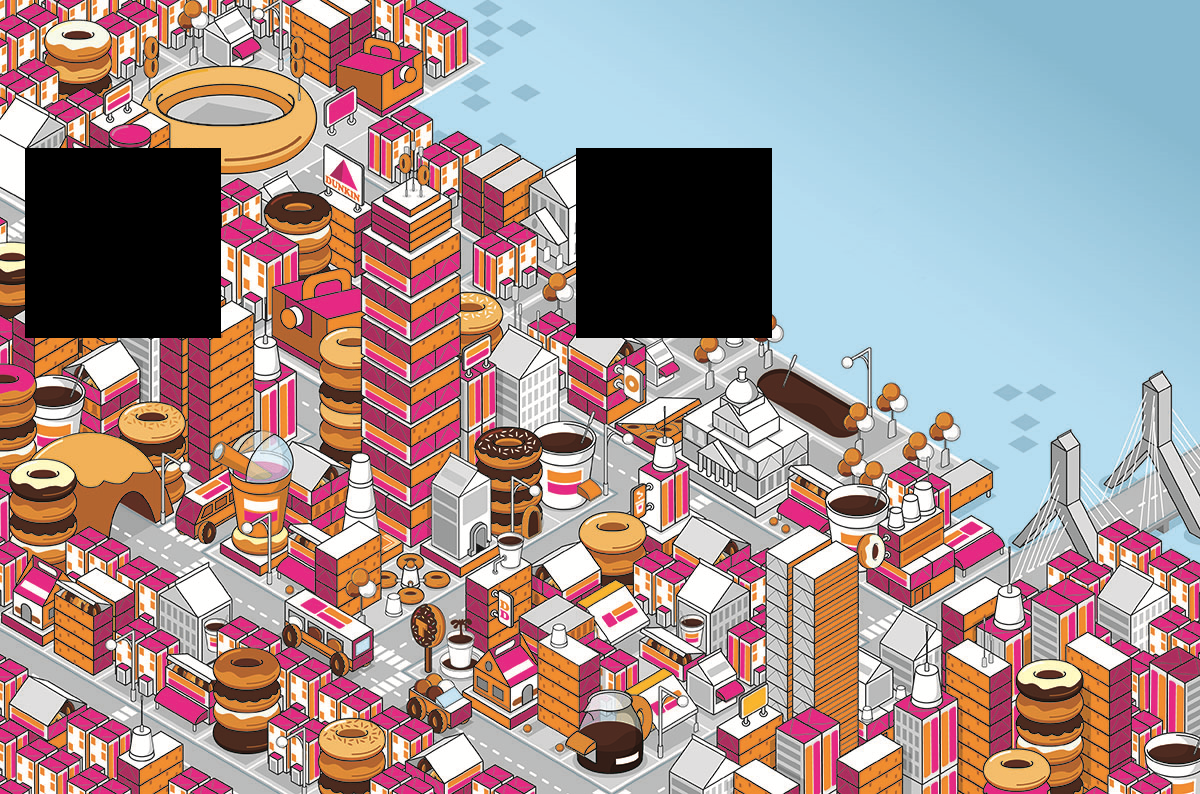
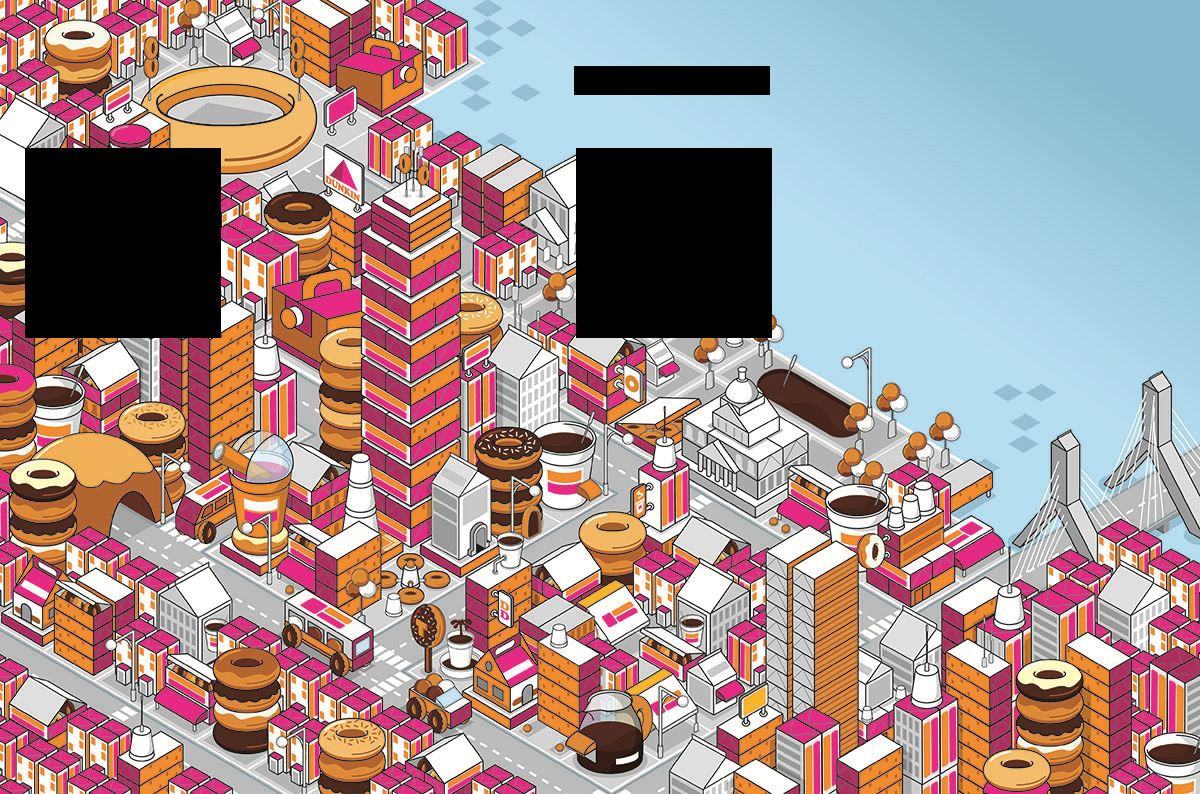
Score Updated
Created score system. Displayed in top right screen.

Changed region(s): [[0.4625, 0.0605, 0.6475, 0.1209]]

diff --git a/tetris/mytetris.py b/tetris/mytetris.py
@@ -311,17 +311,10 @@ def draw_hold_shape(shape, surface):
 
 def draw_score(surface, score):
     font = pygame.font.SysFont('comicsans', 30)
-    #label = font.render(('Score: ', str(score)), 1, (255,255,255))
-    # print("Score is: ", score)
+    label = font.render(('Score: ' + str(score)), 1, (255,255,255))
 
-    sx = top_left_x + play_width - 500
-    sy = top_left_y + play_height/2 - 100
-
-    # for i, line in enumerate(format):
-    #     row = list(line)
-    #     for j, column in enumerate(row):
-    #         if column == '0':
-    #             pygame.draw.rect(surface, shape.color, (sx + j*30, sy + i*30, 30, 30), 0)
+    sx = top_left_x + play_width + 50
+    sy = top_left_y + play_height/2 - 300
 
     surface.blit(label, (sx + 10, sy- 30))
 
